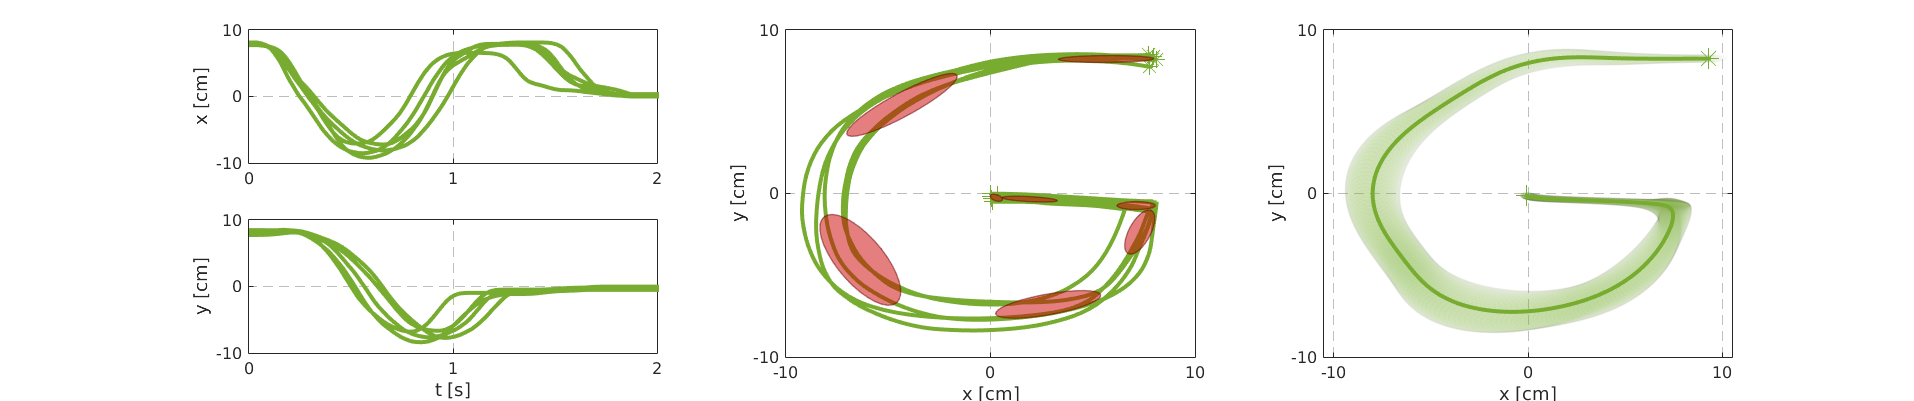
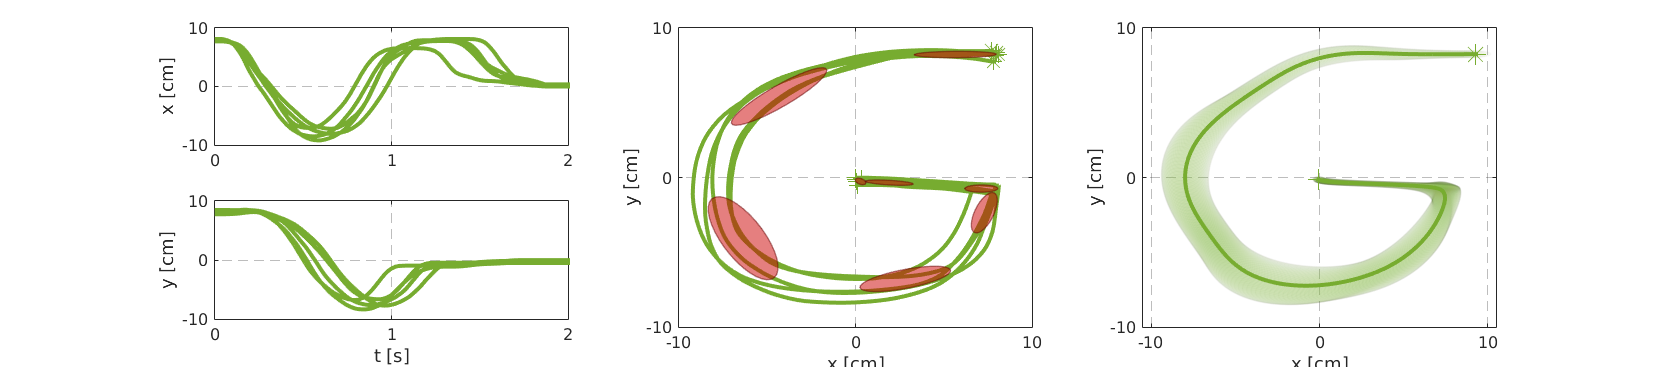
add new code and pic

diff --git a/demos/demo_KMP02.m b/demos/demo_KMP02.m
@@ -1,0 +1,314 @@
+%% DESCRIPTION
+
+% This file provide a simple demo of using kmp, where trajectory adaptations towards
+% various desired points in terms of positions and velocities are studied.
+% 
+% This code is written by Dr. Yanlong Huang
+
+%% REFERENCE
+
+% Please refer to the papers:
+ 
+% @InProceedings{Huang19IJRR,
+%   Title = {Kernelized Movement Primitives},
+%   Author = {Huang, Y. and Rozo, L. and Silv\'erio, J. and Caldwell, D. G.},
+%   Booktitle = {International Journal of Robotics Research},
+%   Year= {2019},
+%   pages= {833--852}
+% }
+
+% @InProceedings{Huang19ICRA_1,
+%   Title = {Non-parametric Imitation Learning of Robot Motor Skills},
+%   Author = {Huang, Y. and Rozo, L. and Silv\'erio, J. and Caldwell, D. G.},
+%   Booktitle = {Proc. {International Conference on Robotics and Automation ({ICRA})},
+%   Year = {2019},
+%   Address = {Montreal, Canada},
+%   Month = {May},
+%   pages = {5266--5272}
+% }
+
+%%
+
+clear all
+close all
+clc
+myColors;
+addpath('../fcts/');
+
+%% Extract position and velocity from demos
+load('../2Dletters/B.mat');
+demoNum=5;                    % number of demos
+demo_dt=0.01;                 % time interval of data
+demoLen=size(demos{1}.pos,2); % size of each demo;
+demo_dura=demoLen*demo_dt;    % time length of each demo
+dim=2;                        % dimension of demo
+
+totalNum=0;
+for i=1:demoNum        
+    for j=1:demoLen
+        totalNum=totalNum+1;
+        Data(1,totalNum)=j*demo_dt;
+        Data(2:dim+1,totalNum)=demos{i}.pos(1:dim,j);
+        if j<demoLen
+            Data(dim+2:2*dim+1,totalNum)=(demos{i}.pos(1:dim,j+1)-demos{i}.pos(1:dim,j))/demo_dt;
+        else 
+            Data(dim+2:2*dim+1,totalNum)=Data(dim+2:2*dim+1,totalNum-1);
+        end
+    end    
+end
+
+%% Extract the reference trajectory
+model.nbStates = 8;   % Number of states in the GMM
+model.nbVar =1+2*dim; % Number of variables [t,x1,x2,.. vx1,vx2...]
+model.dt = 0.005;     % Time step duration
+nbData = demo_dura/model.dt; % Length of each trajectory
+
+model = init_GMM_timeBased(Data, model);
+model = EM_GMM(Data, model);
+[DataOut, SigmaOut] = GMR(model, [1:nbData]*model.dt, 1, 2:model.nbVar); %see Eq. (17)-(19)
+
+for i=1:nbData
+    refTraj(i).t=i*model.dt;
+    refTraj(i).mu=DataOut(:,i);
+    refTraj(i).sigma=SigmaOut(:,:,i);
+end
+
+%% Set kmp parameters
+dt=0.005;
+len=demo_dura/dt;
+lamda=1;  % control mean prediction
+lamdac=60;% control variance prediction
+kh=6;
+
+%% Set desired points
+viaFlag=[1 1 1]; % determine which via-points are used
+
+viaNum=3;
+via_time(1)=dt;
+via_point(:,1)=[-12 -12 0 0]'; % format:[2D-pos 2D-vel]
+via_time(2)=1;
+via_point(:,2)=[0 -1 0 0]';    
+via_time(3)=2;
+via_point(:,3)=[-14 -8 0 0]'; 
+
+via_var=1E-6*eye(4);  % adaptation precision
+via_var(3,3)=1000;via_var(4,4)=1000; % low adaptation precision for velocity
+
+%% Update the reference trajectory using desired points
+newRef=refTraj;
+newLen=len;
+for viaIndex=1:viaNum
+    if viaFlag(viaIndex)==1       
+    [newRef,newLen] = kmp_insertPoint(newRef,newLen,via_time(viaIndex),via_point(:,viaIndex),via_var);
+    end
+end
+
+%% Prediction using kmp
+[Kinv1, Kinv2] = kmp_estimateMatrix_mean_var(newRef,newLen,kh,lamda,lamdac,dim);
+
+for index=1:len
+    t=index*dt;
+    [mu sigma]=kmp_pred_mean_var(t,newRef,newLen,kh,Kinv1,Kinv2,lamdac,dim);
+    kmpPredTraj(index).t=index*dt;
+    kmpPredTraj(index).mu=mu;       
+    kmpPredTraj(index).sigma=sigma;    
+end
+
+for i=1:len
+    gmr(:,i)=refTraj(i).mu;     % format:[2D-pos 2D-vel]
+    kmp(:,i)=kmpPredTraj(i).mu; % format:[2D-pos 2D-vel]
+    for h=1:4
+        gmrVar(h,i)=refTraj(i).sigma(h,h);
+        gmrVar(h,i)=sqrt(gmrVar(h,i));
+        
+        kmpVar(h,i)=kmpPredTraj(i).sigma(h,h);
+        kmpVar(h,i)=sqrt(kmpVar(h,i));
+    end
+    
+    SigmaOut_kmp(:,:,i)=kmpPredTraj(i).sigma;    
+    SigmaOut_gmr(:,:,i)=refTraj(i).sigma;  
+end
+
+%% Show demonstrations and the corresponding reference trajectory
+figure
+set(gcf,'position',[468,875,1914,401])
+%% show demonstrations
+for i=1:demoNum  
+subplot(2,3,1)
+hold on
+plot([demo_dt:demo_dt:demo_dura],Data(2,(i-1)*demoLen+1:i*demoLen),'linewidth',3,'color',mycolors.g);
+box on
+ylabel('x [cm]','interpreter','tex');
+set(gca,'xtick',[0 1 2])
+set(gca,'ytick',[-10 0 10])
+set(gca,'FontSize',12)
+grid on
+set(gca,'gridlinestyle','--')
+ax=gca;
+ax.GridAlpha=0.3;
+
+subplot(2,3,4)
+hold on
+plot([demo_dt:demo_dt:demo_dura],Data(3,(i-1)*demoLen+1:i*demoLen),'linewidth',3,'color',mycolors.g);
+box on
+xlabel('t [s]','interpreter','tex');
+ylabel('y [cm]','interpreter','tex');
+set(gca,'xtick',[0 1 2])
+set(gca,'ytick',[-10 0 10])
+set(gca,'FontSize',12)
+grid on
+set(gca,'gridlinestyle','--')
+ax=gca;
+ax.GridAlpha=0.3;
+end
+
+%% show GMM
+subplot(2,3,[2 5])
+for i=1:demoNum
+hold on
+plot(Data(2,(i-1)*demoLen+1:i*demoLen),Data(3,(i-1)*demoLen+1:i*demoLen),'linewidth',3,'color',mycolors.g);
+end
+hold on
+for i=1:demoLen:demoLen*demoNum
+hold on
+plot(Data(2,i),Data(3,i),'*','markersize',12,'color',mycolors.g); 
+end
+for i=demoLen:demoLen:demoLen*demoNum
+hold on
+plot(Data(2,i),Data(3,i),'+','markersize',12,'color',mycolors.g); 
+end
+hold on
+plotGMM(model.Mu(2:3,:), model.Sigma(2:3,2:3,:), [.8 0 0], .5);
+box on
+grid on
+set(gca,'gridlinestyle','--')
+xlabel('x [cm]','interpreter','tex');
+ylabel('y [cm]','interpreter','tex');
+set(gca,'xtick',[-10 0 10])
+set(gca,'ytick',[-10 0 10])
+set(gca,'FontSize',12)
+ax=gca;
+ax.GridAlpha=0.3;
+
+%% show reference trajectory
+subplot(2,3,[3 6])
+hold on
+plotGMM(DataOut(1:2,:), SigmaOut(1:2,1:2,:), mycolors.g, .025);
+hold on
+plot(DataOut(1,:),DataOut(2,:),'color',mycolors.g,'linewidth',3.0);
+hold on
+plot(DataOut(1,1),DataOut(2,1),'*','markersize',15,'color',mycolors.g)
+hold on
+plot(DataOut(1,end),DataOut(2,end),'+','markersize',15,'color',mycolors.g)
+box on
+xlim([-10.5 10.5])
+xlabel('x [cm]','interpreter','tex');
+ylabel('y [cm]','interpreter','tex');
+set(gca,'xtick',[-10 0 10])
+set(gca,'ytick',[-10 0 10])
+set(gca,'FontSize',12)
+grid on
+set(gca,'gridlinestyle','--')
+ax=gca;
+ax.GridAlpha=0.3;
+
+%% Show kmp predictions
+value=[0.5 0 0.5]; 
+curveValue=mycolors.o; 
+
+figure('units','normalized','outerposition',[0 0 1 1])
+set(gcf, 'Position', [0.1597    0.1311    0.6733    0.2561])
+
+%% plot px-py
+subplot(1,3,1)
+plotGMM(gmr(1:2,:), SigmaOut_gmr(1:2,1:2,:), mycolors.gy, .01);
+hold on
+plotGMM(kmp(1:2,:), SigmaOut_kmp(1:2,1:2,:), curveValue, .03);
+hold on
+plot(gmr(1,:),gmr(2,:),'--','color',mycolors.gy,'linewidth',1.5);
+hold on
+plot(kmp(1,:),kmp(2,:),'color',curveValue,'linewidth',2);
+hold on
+plot(gmr(1,1),gmr(2,1),'*','markersize',12,'color',mycolors.gy);
+hold on
+plot(gmr(1,end),gmr(2,end),'+','markersize',12,'color',mycolors.gy);
+
+for viaIndex=1:viaNum
+    if viaFlag(viaIndex)==1   
+         plot(via_point(1,viaIndex),via_point(2,viaIndex),'o','color',value,'markersize',12,'linewidth',1.5); 
+    end
+end
+
+box on
+xlim([-15 15])
+ylim([-15 15])
+xlabel('${x}$ [cm]','interpreter','latex');
+ylabel('${y}$ [cm]','interpreter','latex');
+set(gca,'xtick',[-10 0 10]);
+set(gca,'ytick',[-10 0 10]);
+set(gca,'FontSize',17)
+grid on
+set(gca,'gridlinestyle','--')
+ax=gca;
+ax.GridAlpha=0.3;
+
+%% plot t-px, t-py, t-vx and t-vy
+shadowT=dt:dt:dt*len;
+shadow_time=[shadowT,fliplr(shadowT)];
+
+for plotIndex=1:2
+subplot(1,3,1+plotIndex)
+
+shadowUpGmr=gmr(plotIndex,:)+gmrVar(plotIndex,:);
+shadowLowGmr=gmr(plotIndex,:)-gmrVar(plotIndex,:);
+shadow_gmr=[shadowUpGmr,fliplr(shadowLowGmr)];
+shadowUpKmp=kmp(plotIndex,:)+kmpVar(plotIndex,:);
+shadowLowKmp=kmp(plotIndex,:)-kmpVar(plotIndex,:);
+shadow_kmp=[shadowUpKmp,fliplr(shadowLowKmp)];
+
+fill(shadow_time,shadow_gmr',mycolors.gy,'facealpha',.2,'edgecolor','none')
+hold on
+fill(shadow_time,shadow_kmp',curveValue,'facealpha',.3,'edgecolor','none')
+hold on
+plot([dt:dt:dt*len],gmr(plotIndex,:),'--','color',mycolors.gy,'linewidth',1.5)
+hold on
+plot([dt:dt:dt*len],kmp(plotIndex,:),'color',curveValue,'linewidth',2.0)
+
+for viaIndex=1:viaNum
+    if viaFlag(viaIndex)==1   
+         plot(via_time(viaIndex),via_point(plotIndex,viaIndex),'o','color',value,'markersize',12,'linewidth',1.5); 
+    end
+end
+
+box on
+xlim([0 len*dt])
+if plotIndex==1 || plotIndex==2 
+    if plotIndex==1
+       ylabel('${x}$ [cm]','interpreter','latex');
+    end
+    if plotIndex==2
+       ylabel('${y}$ [cm]','interpreter','latex');
+    end  
+    ylim([-15 15])
+    set(gca,'ytick',[-10 0 10]);
+end
+if plotIndex==3 || plotIndex==4 
+    if plotIndex==3
+       ylabel('$\dot{x}$ [cm/s]','interpreter','latex');
+    end
+    if plotIndex==4
+       ylabel('$\dot{y}$ [cm/s]','interpreter','latex');
+    end
+    ylim([-80 80])
+    set(gca,'ytick',[-80 0 80]);
+end
+
+xlabel('$t$ [s]','interpreter','latex');
+set(gca,'xtick',[0 1 2]);
+set(gca,'FontSize',17)
+grid on
+set(gca,'gridlinestyle','--')
+ax=gca;
+ax.GridAlpha=0.3;
+end
+

diff --git a/demos/demo_orientationKMP.m b/demos/demo_orientationKMP.m
@@ -168,11 +168,11 @@ if viaFlag(i) [sampleData,num] = kmp_insertPoint(sampleData,num,via_time(i),via_
 end
 
 %% KMP prediction
-Kinv = kmp_estimateMatrix(sampleData,num,kh,lamda,dim);
+Kinv = kmp_estimateMatrix_mean(sampleData,num,kh,lamda,dim);
 
 for index=1:len
     t=index*dt;
-    mu=kmp_pred(t,sampleData,num,kh,Kinv,dim);    
+    mu=kmp_pred_mean(t,sampleData,num,kh,Kinv,dim);    
     kmpTraj(1,index)=t;
     kmpTraj(2:7,index)=mu;
 end
@@ -265,7 +265,6 @@ ylabel('  [rad/s]','interpreter','tex')
 ylim([-0.5 0.5])
 set(gca,'xtick',[0 5 10])
 set(gca,'ytick',[-0.5 0 0.5])
-
 set(gca,'FontSize',18)
 grid on
 set(gca,'gridlinestyle','--')
